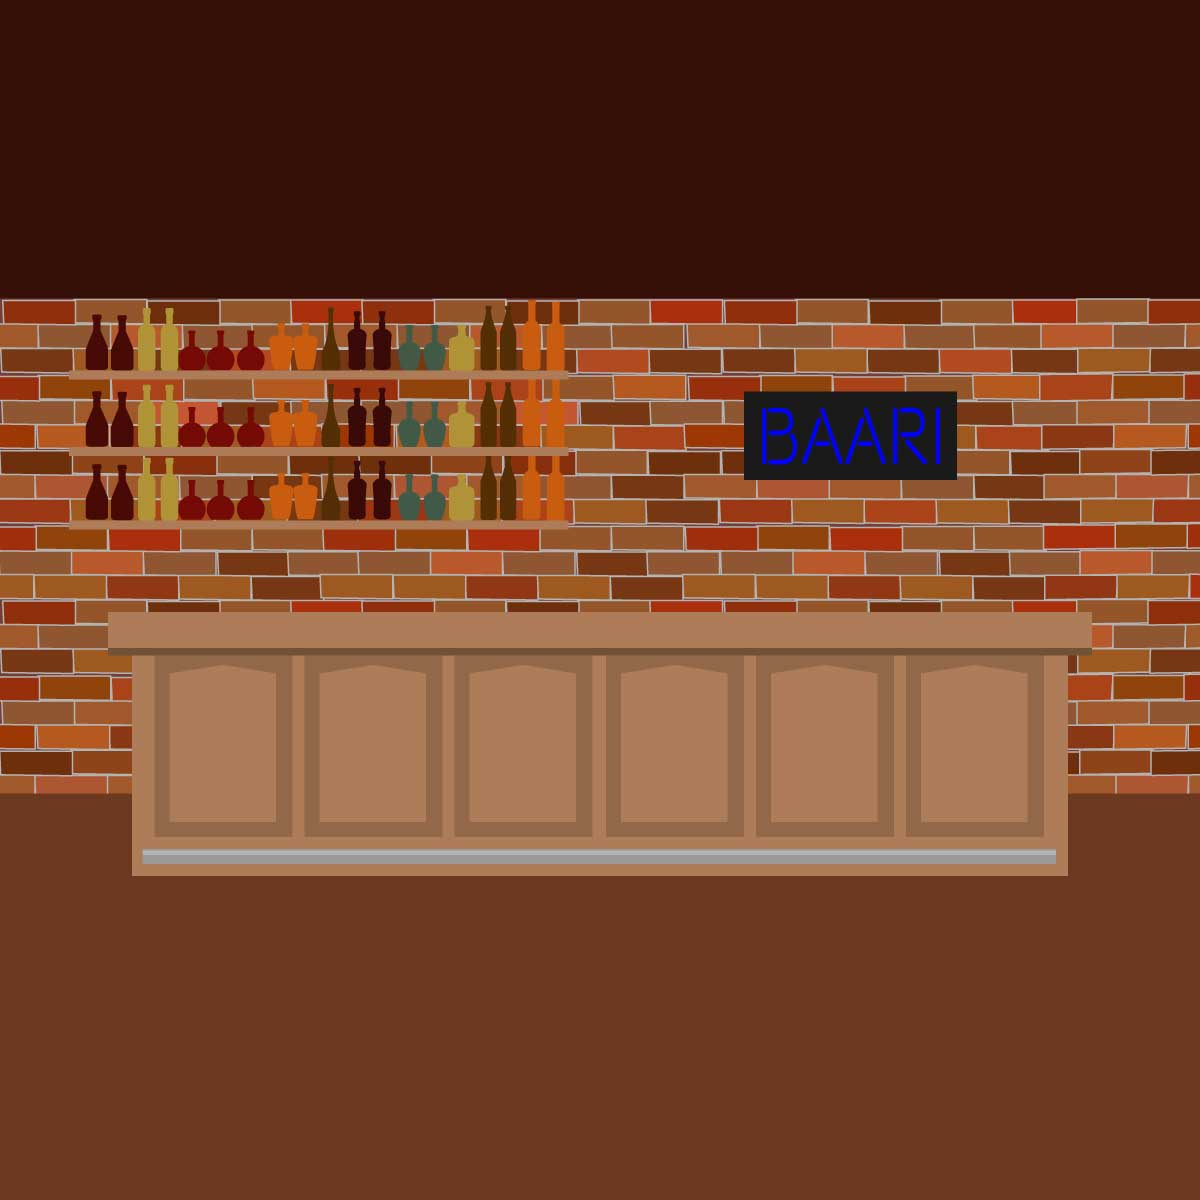
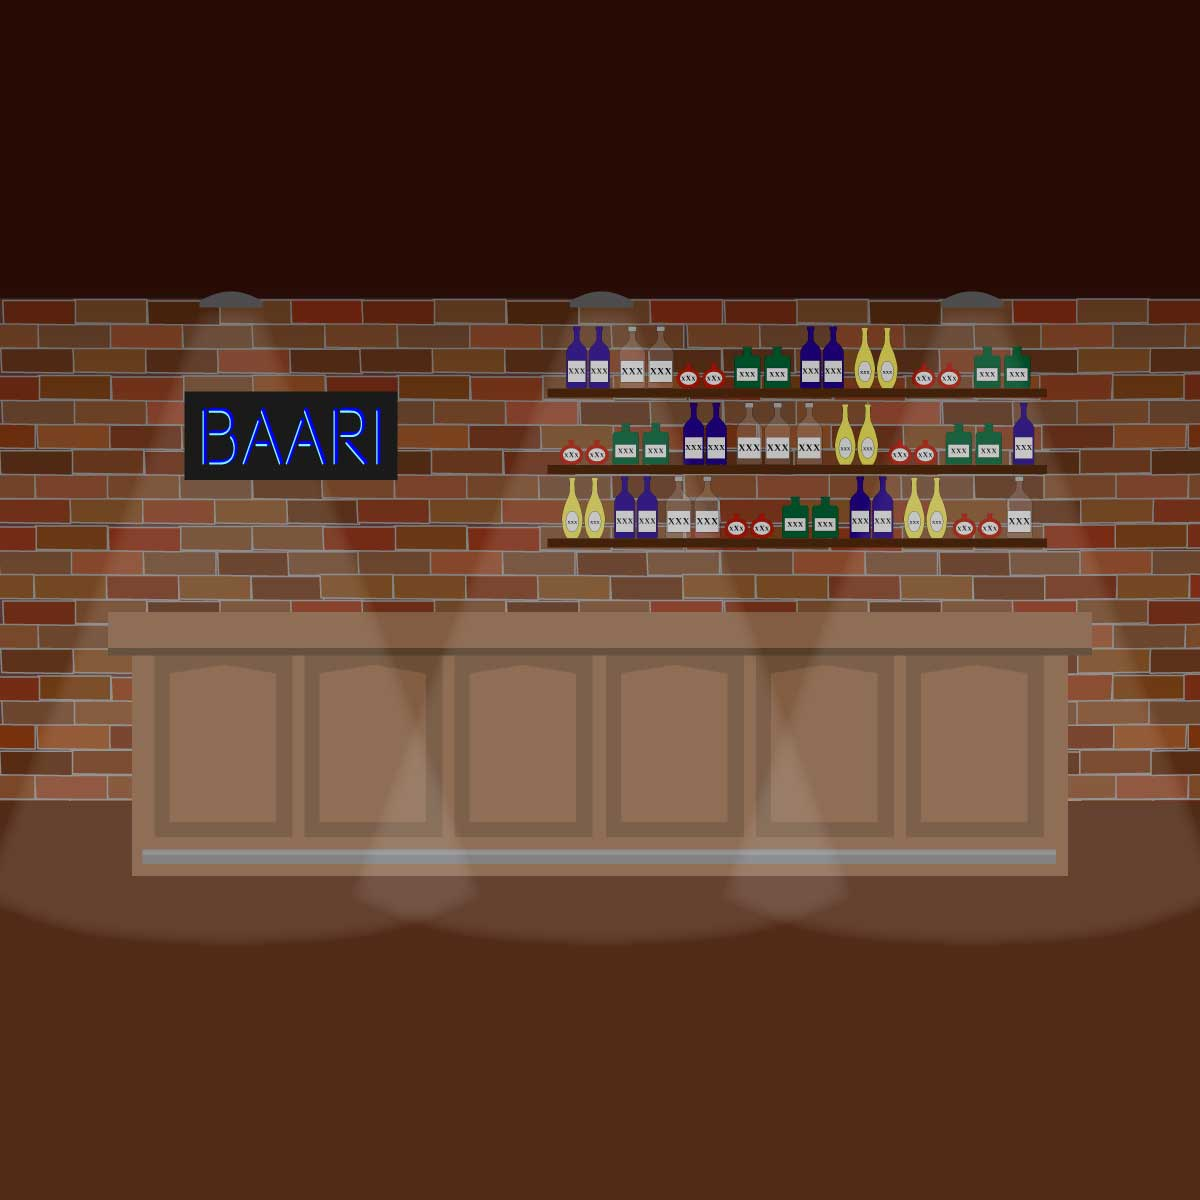
Revamps bar art, splits counter from background

diff --git a/front/src/minigame.ts b/front/src/minigame.ts
@@ -9,6 +9,7 @@ import bottles from '../assets/json/bottles.json';
 export class Minigame extends GameObject {
     public score = 0;
     private bottles: Bottle[] = [];
+    public current_drink: Bottle[] =[];
     // private pressed_keys: PressedKeys;
     // private ticks: number = 0;
 
@@ -19,15 +20,24 @@ export class Minigame extends GameObject {
         const minigame_mask = new PIXI.Graphics().beginFill(0xFF0033).drawRect(x, 0, width, app.renderer.height).endFill();
         this.mask = minigame_mask;
 
-        const background = new PIXI.Sprite(assets.baari.texture);
+        const background = new PIXI.Sprite(assets.baari_bg.texture);
+        const counter_height = app.renderer.height / 2;
+        const counter = new PIXI.Sprite(assets.counter.texture);
+        counter.y = counter_height;
+        const baari_shading = new PIXI.Sprite(assets.baari_shading.texture);
         const scale = Math.min(width / background.width * 1.5, app.renderer.height / background.height);
         background.scale.set(scale, scale);
-        this.addChild(background);
+        counter.scale.set(scale, scale);
+        baari_shading.scale.set(scale, scale);
 
-        const counter_height = app.renderer.height / 2;
+        this.addChild(background); 
+        this.addChild(counter); 
+
         this.bottles = bottles.bottles.map(b => new Bottle(this, counter_height, b));
         this.addChild(this.bottles[6]);
         // this.bottles.forEach(b => this.addChild(b));
+
+        this.addChild(baari_shading);
     }
     
     public tick(delta: number, ticks: number) {

diff --git a/front/src/assets.ts b/front/src/assets.ts
@@ -6,6 +6,9 @@ export interface Assets {
     nopat: PIXI.Sprite
     tmpmap: PIXI.Sprite
     baari: PIXI.Sprite
+    baari_bg: PIXI.Sprite
+    baari_shading: PIXI.Sprite
+    counter: PIXI.Sprite
     bottle: PIXI.Sprite
     blue_bottle: PIXI.Sprite
     green_bottle: PIXI.Sprite
@@ -21,6 +24,9 @@ const images: {[k in keyof Partial<typeof assets>]: any} = {
     nopat: require('../assets/img/nopat.png'),
     tmpmap: require('../assets/img/tmpmap.png'),
     baari: require('../assets/img/baari.jpg'),
+    baari_bg: require('../assets/img/baari_bg.jpg'),
+    baari_shading: require('../assets/img/baari_shading.png'),
+    counter: require('../assets/img/counter.png'),
     bottle: require('../assets/img/bottle.png'),
     blue_bottle: require('../assets/img/blue_bottle.png'),
     green_bottle: require('../assets/img/green_bottle.png'),
